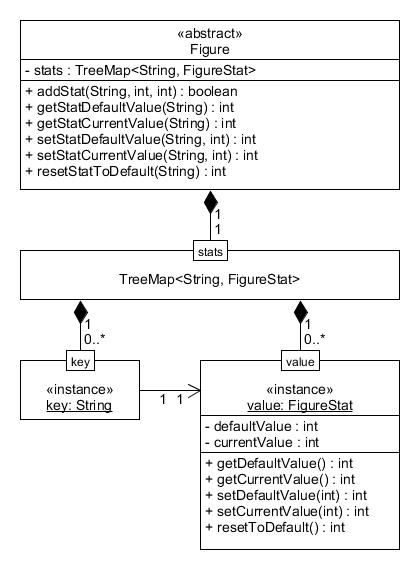
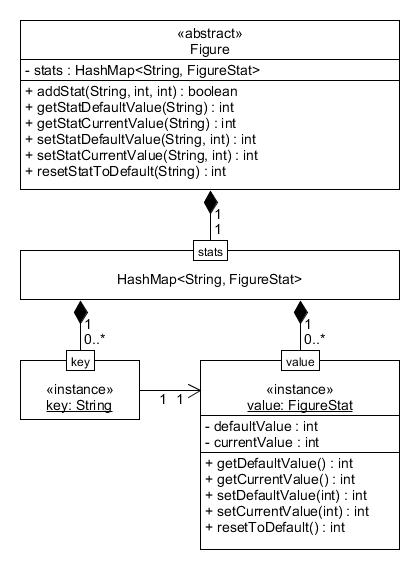
Changed the pairing mechanism for stat names to stat values into a HashMap instead of a TreeMap.

Changed region(s): [[0.1857, 0.0895, 0.619, 0.1491], [0.2786, 0.4772, 0.7119, 0.507]]

diff --git a/src/board/Figure.java b/src/board/Figure.java
@@ -1,6 +1,6 @@
 package board;
 
-import java.util.TreeMap;
+import java.util.HashMap;
 
 /**
  * <p>
@@ -34,13 +34,13 @@ public abstract class Figure {
      * <li>
      * съпоставена на името конкретна стойност ({@link FigureStat}).
      */
-    private final TreeMap<String, FigureStat> stats;
+    private final HashMap<String, FigureStat> stats;
 
     /**
      * Конструктор без параметри.
      */
     public Figure() {
-        this.stats = new TreeMap<>();
+        this.stats = new HashMap<>();
     }
 
     /**
